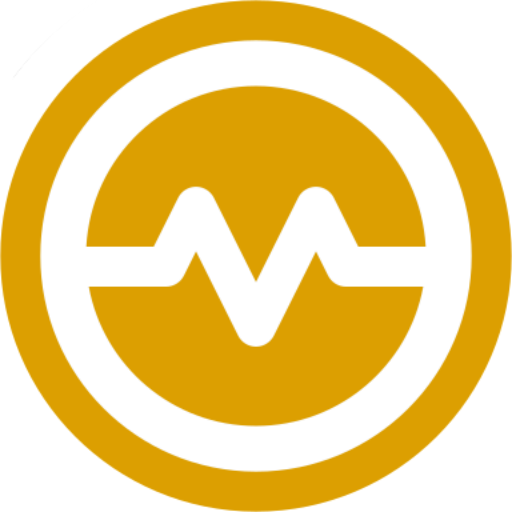
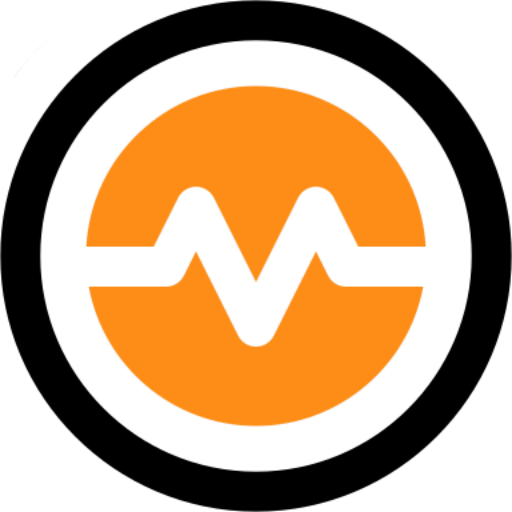
마커 이미지 수정, index.html 마커 안내 영역 추가

diff --git a/src/main/resources/templates/map/index.html b/src/main/resources/templates/map/index.html
@@ -1,44 +1,58 @@
 <!DOCTYPE html>
 <html lang="ko">
-
-<head>
-	<meta charset="UTF-8" />
-	<meta name="viewport" content="width=device-width, initial-scale=1.0" />
-	<title>MARRAD</title>
-	<link rel="stylesheet" href="../CSS/settings.css" />
-	<link rel="stylesheet" href="../CSS/common.css" />
-	<link rel="stylesheet" href="../CSS/index.css" />
-</head>
-<!-- 로그인 버튼 -->
-<!-- <div class="signInClick">
+	<head>
+		<meta charset="UTF-8" />
+		<meta name="viewport" content="width=device-width, initial-scale=1.0" />
+		<title>MARRAD</title>
+		<link rel="stylesheet" href="../CSS/settings.css" />
+		<link rel="stylesheet" href="../CSS/common.css" />
+		<link rel="stylesheet" href="../CSS/index.css" />
+	</head>
+	<!-- 로그인 버튼 -->
+	<!-- <div class="signInClick">
 				<a href="./">로그인</a>
 			</div> -->
 
-<body>
-	<!-- 전체 영역 -->
-	<div class="mainArea">
-		<!-- header 영역 -->
-		<div class="headerArea">
-			<div class="logoArea">
-
-				<head th:replace="common/header" />
+	<body>
+		<!-- 전체 영역 -->
+		<div class="mainArea">
+			<!-- header 영역 -->
+			<div class="headerArea">
+				<div class="logoArea">
+					<head th:replace="common/header" />
+				</div>
 			</div>
-		</div>
 
-		<!-- 지도 영역 -->
-		<section class="mapArea">
-			<div id="map" class="map">
-				<!-- 메뉴 바 영역-->
-				<div class="menuBarArea">
-					<div id="radioBtn" class="selectedBtn" onclick="selectRadioBtn(event)">
-						<img src="../img/icon_radioactivity_mono.png" alt="noRadioBtnImg" class="radioBtnImg" />
-						<button class="menu">방사능</button>
+			<!-- 지도 영역 -->
+			<section class="mapArea">
+				<div id="map" class="map">
+					<!-- 메뉴 바 영역-->
+					<div class="menuBarArea">
+						<div
+							id="radioBtn"
+							class="selectedBtn"
+							onclick="selectRadioBtn(event)"
+						>
+							<img
+								src="../img/icon_radioactivity_mono.png"
+								alt="noRadioBtnImg"
+								class="radioBtnImg"
+							/>
+							<button class="menu">방사능</button>
+						</div>
+						<div
+							id="eqBtn"
+							class="menuBarBtn"
+							onclick="selectEQBtn(event), eqYearPush()"
+						>
+							<img
+								src="../img/icon_earthquake.png"
+								alt="noRadioBtnImg"
+								class="radioBtnImg"
+							/>
+							<button class="menu">지진</button>
+						</div>
 					</div>
-					<div id="eqBtn" class="menuBarBtn" onclick="selectEQBtn(event), eqYearPush()">
-						<img src="../img/icon_earthquake.png" alt="noRadioBtnImg" class="radioBtnImg" />
-						<button class="menu">지진</button>
-					</div>
-
 					<!-- 마커 설명 -->
 					<div class="markerInfoArea">
 						<div class="markerInfo">
@@ -49,9 +63,9 @@
 									class="markerInfoImg"
 								/>
 							</span>
-							<span>진도 0 ~ 1.9</span>
+							<span class="markerInfo_eqScale">진도 0 ~ 1.9</span>
 						</div>
-						<div>
+						<div class="markerInfo">
 							<span>
 								<img
 									src="../img/marker_earthquake_yellow.png"
@@ -59,9 +73,9 @@
 									class="markerInfoImg"
 								/>
 							</span>
-							<span>진도 1.1 ~ 2.9</span>
+							<span class="markerInfo_eqScale">진도 1.1 ~ 2.9</span>
 						</div>
-						<div>
+						<div class="markerInfo">
 							<span>
 								<img
 									src="../img/marker_earthquake_red.png"
@@ -69,36 +83,37 @@
 									class="markerInfoImg"
 								/>
 							</span>
-							<span>진도 1.1 ~ 2.9</span>
+							<span class="markerInfo_eqScale">진도 3 이상</span>
 						</div>
 					</div>
 				</div>
-			</div>
-		</section>
-	</div>
-</body>
+			</section>
+		</div>
+	</body>
 
-<!-- script -->
+	<!-- script -->
 
-<!-- kakao 지도 관련 script -->
-<script src="https://developers.kakao.com/sdk/js/kakao.min.js"></script>
-<script type="text/javascript" src="//dapi.kakao.com/v2/maps/sdk.js?appkey=ff6d272e36cf8a9c0cc865875558ac29"></script>
+	<!-- kakao 지도 관련 script -->
+	<script src="https://developers.kakao.com/sdk/js/kakao.min.js"></script>
+	<script
+		type="text/javascript"
+		src="//dapi.kakao.com/v2/maps/sdk.js?appkey=ff6d272e36cf8a9c0cc865875558ac29"
+	></script>
 
-<!-- 맵 + 메뉴 바 화면 사이즈 조절 -->
-<script>
-	document.addEventListener("DOMContentLoaded", () => {
-		const h = window.innerHeight;
-		const map = document.querySelector("#map");
-		map.style.height = `${h}px`;
+	<!-- 맵 + 메뉴 바 화면 사이즈 조절 -->
+	<script>
+		document.addEventListener("DOMContentLoaded", () => {
+			const h = window.innerHeight;
+			const map = document.querySelector("#map");
+			map.style.height = `${h}px`;
 
-		const bar = document.querySelector(".menuBarArea");
+			const bar = document.querySelector(".menuBarArea");
 
-		bar.style.height = `${0.88 * parseInt(map.style.height)}px`;
-		console.log(`브라우저 세로 길이: ${bar.style.height}`);
-	});
-</script>
+			bar.style.height = `${0.88 * parseInt(map.style.height)}px`;
+			console.log(`브라우저 세로 길이: ${bar.style.height}`);
+		});
+	</script>
 
-<script src="../JS/kakaoMap.js"></script>
-<script src="../JS/button.js"></script>
-
+	<script src="../JS/kakaoMap.js"></script>
+	<script src="../JS/button.js"></script>
 </html>

diff --git a/src/main/resources/static/CSS/index.css b/src/main/resources/static/CSS/index.css
@@ -188,21 +188,32 @@
 }
 
 .markerInfoArea {
+	background-color: rgb(255, 255, 255);
 	display: flex;
 	flex-direction: row;
 	position: relative;
+	justify-content: space-evenly;
 	z-index: 3;
-	width: 300px;
-	height: 80px;
-	border: 3px solid black;
-	bottom: -700px;
-	right: -77%;
+	width: 400px;
+	height: 45px;
+	border: 0;
+	border-radius: 15px;
+	bottom: -92.5%;
+	right: -70.5%;
 	align-items: center;
 }
 .markerInfo {
-	padding: 15px;
+	display: flex;
+	flex-direction: row;
+	padding: 10px 10px 10px 10px;
+	align-items: center;
 }
 .markerInfoImg {
 	width: 20px;
 	height: 20px;
+	margin: 3px 5px 0 0;
+}
+.markerInfo_eqScale {
+	font-size: 14px;
+	font-weight: bold;
 }

diff --git a/src/main/resources/static/JS/kakaoMap.js b/src/main/resources/static/JS/kakaoMap.js
@@ -80,7 +80,7 @@ const eqYearPush = async () => {
 		}
 
 		// 마커 이미지의 이미지 크기
-		const imageSize = new kakao.maps.Size(15, 15);
+		const imageSize = new kakao.maps.Size(12, 12);
 		// 마커이미지의 옵션입니다. 마커의 좌표와 일치시킬 이미지 안에서의 좌표를 설정합니다.
 		const imageOption = { offset: new kakao.maps.Point(10, 35) };
 		let markerImage = new kakao.maps.MarkerImage(
